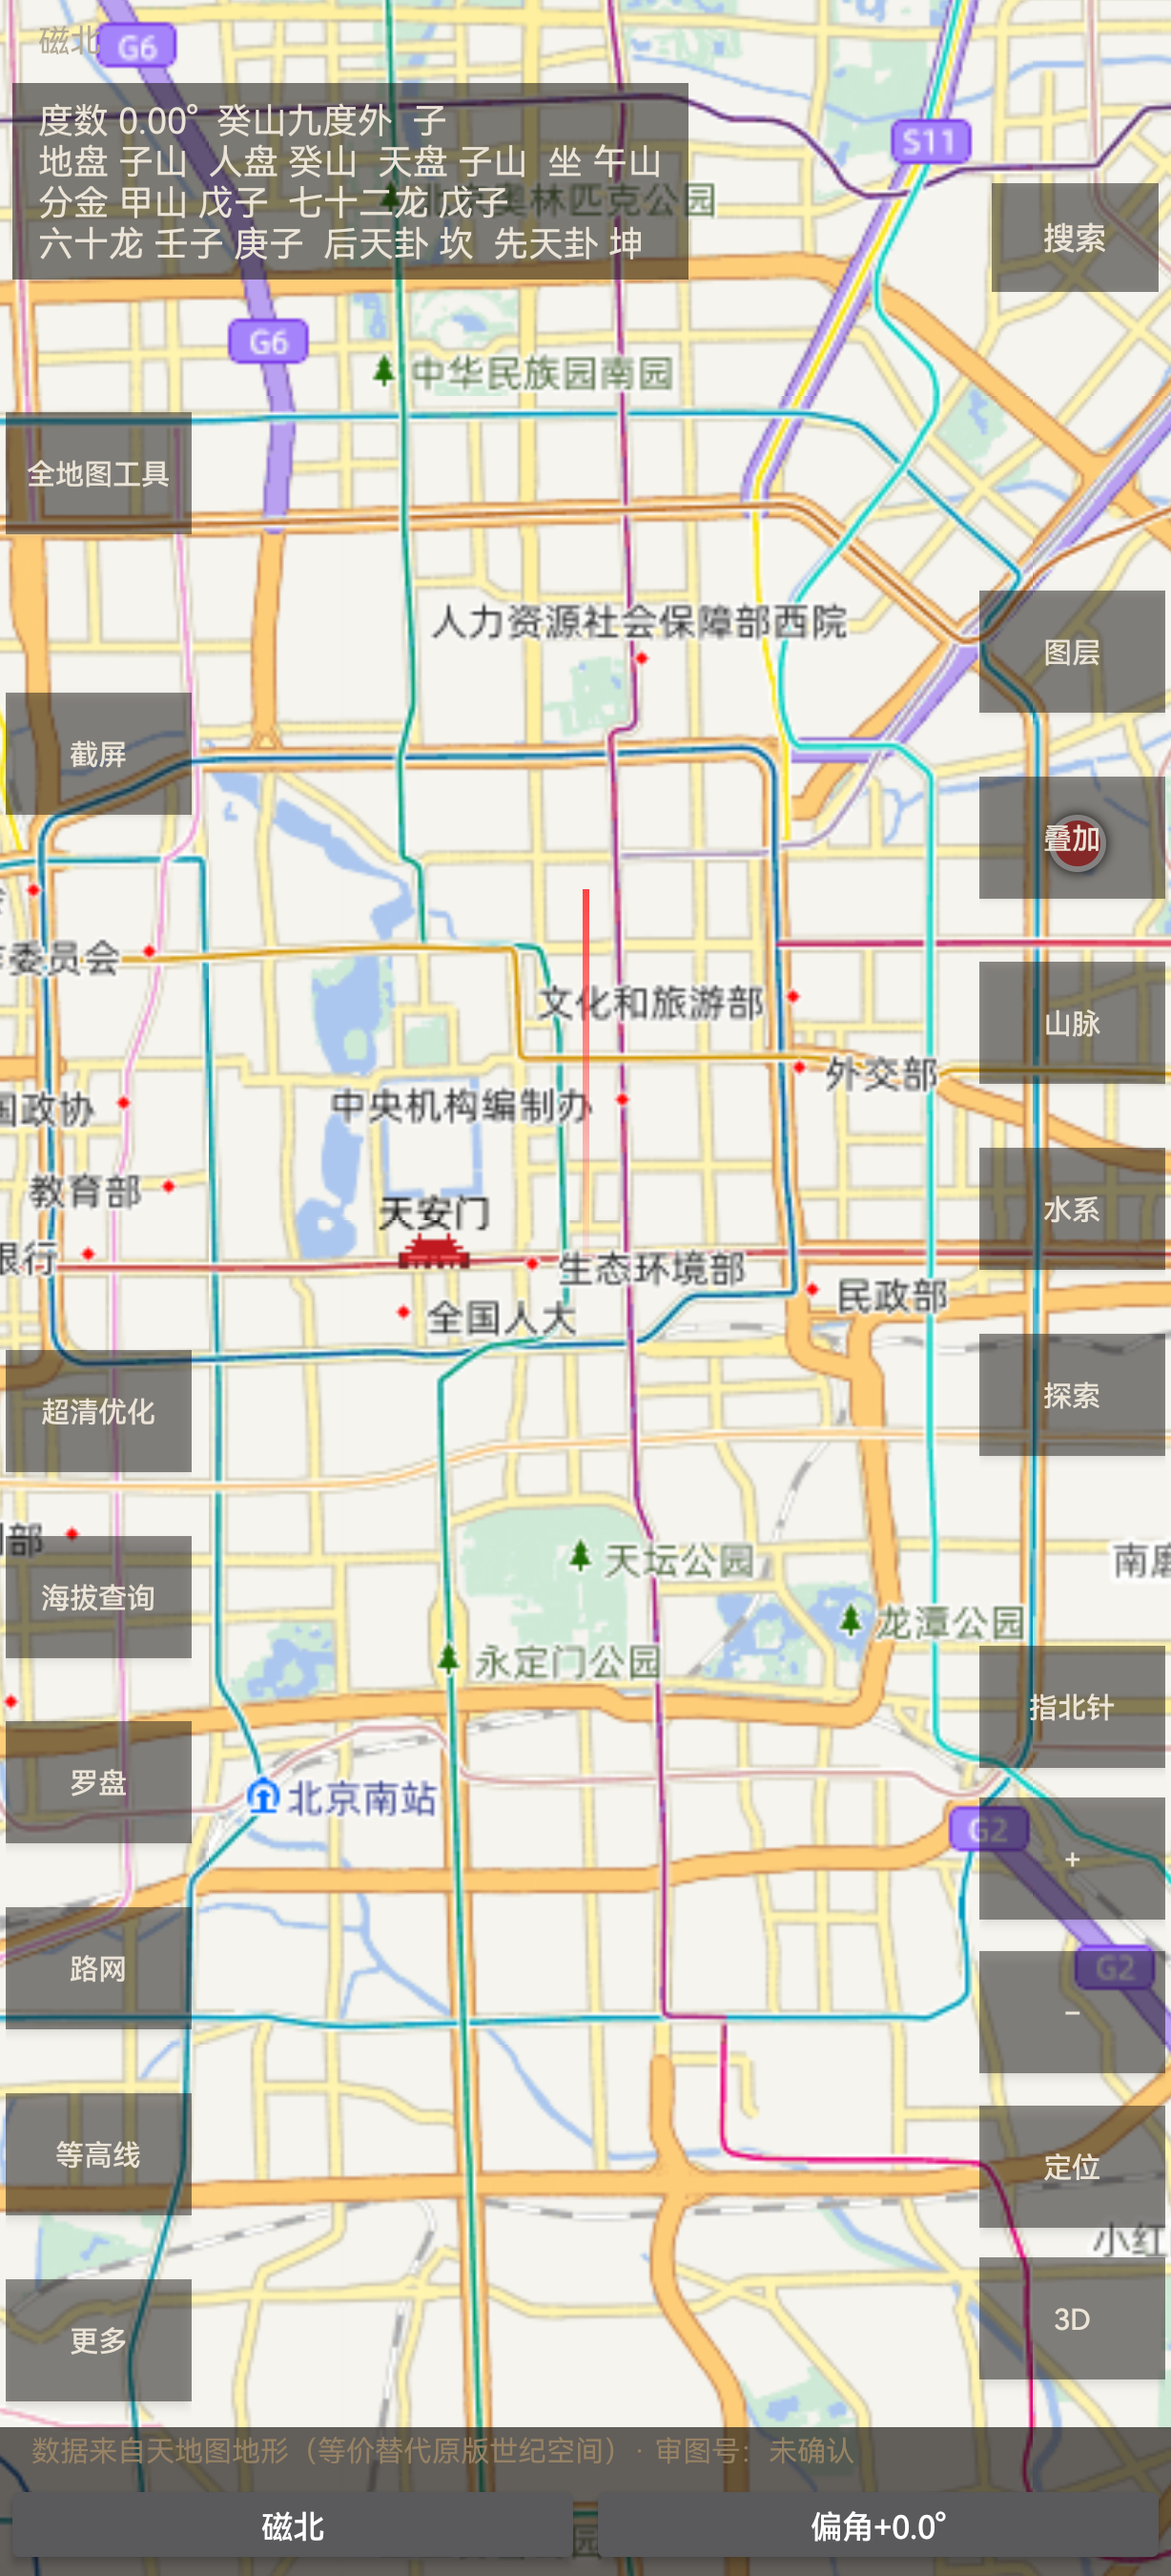
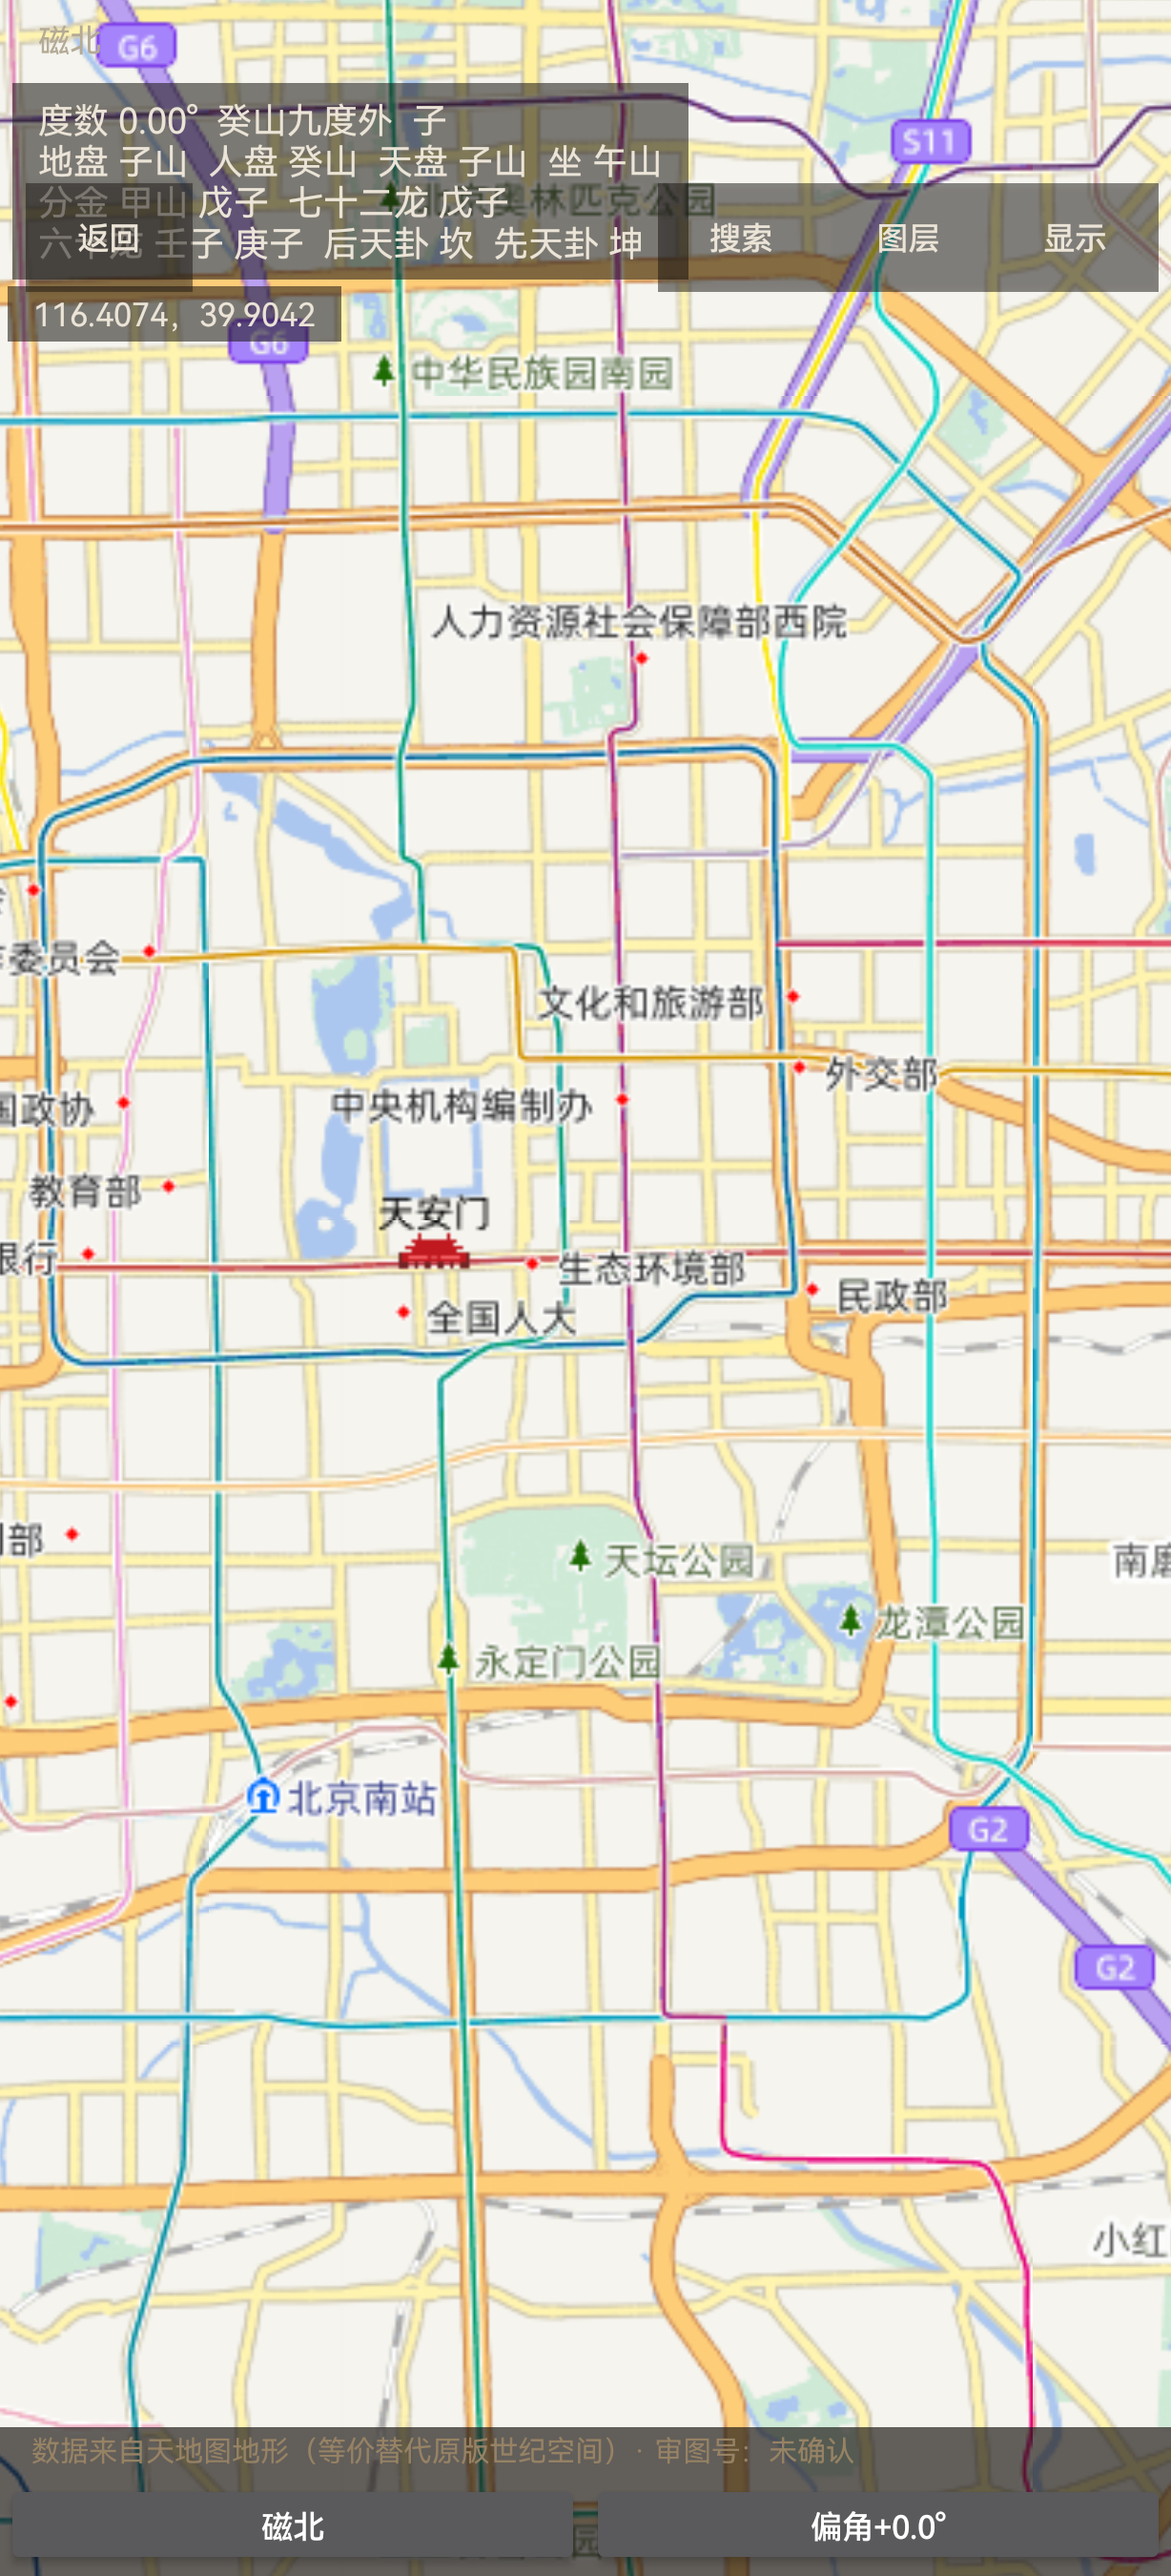
evidence(fidelity): P0 批次四态（POI/收藏/抽屉/隐藏）+ 索引落点（构建 55aa19b）
代码在 `feature/client-p0-batch1`（078ec1f 四项实现 + 55aa19b 坐标条/返回键），
本提交只放证据与索引，全部 1228x2700、动画 0、heading 0、clearMarkers 后采。

- map-poi-sheet-01（行 05，原缺失）：lc_poi_panel [0,2135][1228,2578]=443px；
  名称 逆地理「北京市东城区景山街道张自忠路4号院1号楼」、距我 1730.4 km、海拔 未知、
  WGS84:116.4074，39.9315、复制经纬度/收藏地点/导航/清除标记 均实测可点。
- favorite-list-02（行 17/37）：lc_fav_column 2 项（收藏列表/等高线）+ lc_fav_add「添加点」。
- drawer-menu-03（行 34，原缺失）：lc_drawer_panel 9 项 + 版本号「三维山水全景地图V 1.6.1」。
- compass-overlay-hidden-map（行 09，重采）：按钮变「显示」、reading_text 与 lc_coord_text
  「116.4074，39.9042」保留、左右工具列 0 项、不退出罗盘态。

meta 说明：`fidelity collect` 强制 `build.branch=develop`，本批代码还在 feature 分支，
所以这四态只落 png+xml；合入 develop 后按同 stem 重采或 meta-backfill 生成，不写假 branch。
旧 compass-overlay-hidden-map.meta.json 与旧图已不匹配，已删除。
索引 §1 统计改为 有19 + 等价1 + 地图16 + 缺失2 = 38。

[LC客户端]

diff --git a/docs/fidelity/lc-captures.md b/docs/fidelity/lc-captures.md
@@ -33,6 +33,7 @@
 |---|---|---|---|
 | 客户端章节首批 | `e88ed0c`（`e88ed0c2aa70272e36f6d03a0a6f12511d6bf532`） | 7,059,509 B / `8DD5BF13…` | 14 个 stem（含 `map-home-01`、罗盘页、读盘、更多面板、设置、天气、收藏点空态、超清地图、增量 2 个） |
 | 客户端章节 D2 | `bd0323b`（`bd0323b0e64a71f660ff322f33b31de42c36f432`） | 7,059,481 B / `381D163E…` | `tool-manage-01`、`favorite-addpoint-01` |
+| 客户端 P0 批次（R2-004/006/014/018） | `55aa19b`（`55aa19b03689cdf77adff2134e913d02d181a32f`，分支 `feature/client-p0-batch1`） | 7,261,981 B | `map-poi-sheet-01`、`favorite-list-02`、`drawer-menu-03`、`compass-overlay-hidden-map`（重采）。**meta 暂缺**：`collect` 强制 `build.branch=develop`，本批代码尚在 feature 分支，待合入 develop 后按同 stem 重采/backfill 生成 |
 | 地图章节 | `464ebb8` + `bd0323b`（新采 `map-3d-img` 等） | 见 §4 口径行 | 见 §4 |
 
 D2 采集注意：钓点页「加钓点」会写入 1 条自建钓点（`FishingActivity` 的 `SharedPreferences lc_fish/points`），
@@ -72,11 +73,11 @@ D2 采集注意：钓点页「加钓点」会写入 1 条自建钓点（`Fishing
 | 02 | 开屏广告（`_launch-probe2.png`） | 缺失 | — | LC 无广告 SDK/开屏位；证据：`launch-probe-01.png` 冷启动直接是地图页，`more-sheet-03-fresh.xml` 条目里无任何广告入口 |
 | 03 | 地图主界面（`map-home-01`） | 有 | `map-home-01.png/.xml/.meta.json` | 默认位置（全国视野），左列 8 项、右列 10 项、顶栏 搜索/图层、底部角注条 |
 | 04 | 地图固定态（`map-beijing-z12`） | 地图章节 | — | 固定态由 LC地图 采（`setView(39.9042,116.4074,12)`） |
-| 05 | POI 详情面板（`map-poi-sheet-01`） | 缺失 | — | LC 无 POI 详情面板；证据：`map-home-01.xml` 全节点表无详情容器，地图点选只回 `MapMarker`（3D 点选）不弹面板 |
+| 05 | POI 详情面板（`map-poi-sheet-01`） | 有 | `map-poi-sheet-01.png/.xml`（构建 `55aa19b`，meta 待合 develop 后 backfill） | R2-004 已实现：点图保留「立向点」并在其上挂面板，`lc_poi_panel` **[0,2135][1228,2578]=443px**；名称=逆地理`北京市东城区景山街道张自忠路4号院1号楼`、`距我 1730.4 km    海拔 未知`、`WGS84:116.4074，39.9315`（全角逗号）、三枚动作 复制经纬度[47,2432]-[425,2551]/收藏地点[425,2432]-[803,2551]/导航[803,2432]-[1181,2551]，另有清除标记[884,2162]-[1181,2324] |
 | 06 | 搜索页空结果（`search-result-01`） | 地图章节 | — | 顶栏「搜索」[1040,192]-[1215,306]（`map-home-01.xml`），搜索面在 `map.html` 内，归地图章节 |
 | 07 | 搜索页四坐标系（`search-result-02`） | 地图章节 | — | 同上 |
 | 08 | 罗盘浮层页（`tool-compass-page`） | 有 | `tool-compass-page.png/.xml/.meta.json` | 24 山盘 + 度数 + 太极 + 读数面板；左列 6 项、右列 4 项、底栏 5 项 |
-| 09 | 罗盘浮层（读数条 + 隐藏，`compass-overlay-hidden-map`） | 有 | `compass-overlay-hidden-map.png/.xml/.meta.json` | 点顶栏「隐藏」后盘面消失、地图与工具列保留；与 03 逐像素差 2,169,388 px（65.4%） |
+| 09 | 罗盘浮层（读数条 + 隐藏，`compass-overlay-hidden-map`） | 有 | `compass-overlay-hidden-map.png/.xml`（R2-006 重采，构建 `55aa19b`） | R2-006 后：隐藏只隐盘面/指针/左右工具列（0 项），按钮变`显示`[1040,192]-[1215,306]、`返回`[27,192]-[202,306] 保留、读数条 `reading_text`[13,87]-[722,293] 保留、坐标 `116.4074，39.9042` `lc_coord_text`[8,300]-[358,358] 保留，不退出罗盘态 |
 | 10 | 海拔查询 POI 面板（`compass-main-01`） | 有 | `compass-main-01.png/.xml/.meta.json` | 左列「海拔查询」→ 点地图：纬度/经度/海拔 55.0 m/地址/含氧量 20.88 %/气压 1006.7 hPa/关闭 |
 | 11 | 超清地图（VIP 引导，`tool-hdmap-01`） | 有 | `tool-hdmap-01.png/.xml/.meta.json` | LC 无 VIP 墙，直接是可用的「2× 放大（双三次）→ 生成超清图」页 |
 | 12 | 付费墙（`vip-paywall-01`） | 缺失 | — | LC 全功能免费，无付费墙/VIP 页；证据：`more-sheet-03-fresh.xml` 16 个工具条目全部可直接进入 |
@@ -84,7 +85,7 @@ D2 采集注意：钓点页「加钓点」会写入 1 条自建钓点（`Fishing
 | 14 | 右列（`win-02-compass`） | 有 | `win-02-compass.*` | 地图/实景/坐南朝北/指针开关 |
 | 15 | 底栏（`win-02-compass`） | 有 | `win-02-compass.*` | 切换/旋转/缩放/透明度/天支线 |
 | 16 | 智能读盘弹层（`w3-sheet`） | 有 | `w3-sheet.png/.xml/.meta.json` | 14 行「类型名 向：X 坐：Y」逐行完整（含先天卦位/洛书数/三盘/分金/七十二龙/六十龙） |
-| 17 | 收藏点模式（`tool-favorite-01`） | 有 | `tool-favorite-01.png/.xml/.meta.json` | LC 打开的是独立列表页 `InterestListActivity`（`MainActivity.java:1417-1419`，F-11 默认开），空态文案 `lc_interest_empty`「暂无收藏点」，dump 仅 3 节点；不是原版「地图内收藏点模式 + 右列收藏列表」形态，形态差异见 findings-client P1-17 |
+| 17 | 收藏点模式（`tool-favorite-01`） | 有 | `favorite-list-02.png/.xml`（R2-014 重采，构建 `55aa19b`） | R2-014 后「更多→收藏点」直接进地图态：右列 `lc_fav_column`[966,1195]-[1222,1505] 2 项 收藏列表[966,1195]-[1222,1350]/等高线[966,1350]-[1222,1505]，底部 `lc_fav_add`「添加点」[0,2430]-[1228,2578]；列表降为 `InterestListActivity` 子页，返回键退回地图态 |
 | 18 | 测量模式（`tool-measure-01`） | 地图章节 | — | 入口在 `more-sheet-03-fresh.xml`「测量」[359,1372]-[613,1534] |
 | 19 | 画笔模式（`tool-brush`） | 地图章节 | — | 入口「画笔」[613,1372]-[867,1534] |
 | 20 | 钓点（`tool-fishing`） | 地图章节 | — | 入口「钓点」[867,1372]-[1121,1534] |
@@ -101,13 +102,13 @@ D2 采集注意：钓点页「加钓点」会写入 1 条自建钓点（`Fishing
 | 31 | 地图工具面板（默认态，`more-sheet-03-fresh`） | 有 | `more-sheet-03-fresh.png/.xml/.meta.json` | 标题「地图工具」；16 项：罗盘/超清地图/看山脉/看水系/海拔查询/天气/历史影像/等高线/收藏点/测量/画笔/钓点/轨迹记录/路网/地理影像/超清优化，另有「设置」「功能开关（调试）」 |
 | 32 | 地图工具面板（滚动后，`more-sheet-02-scrolled`） | 有 | **与 31 共用** `more-sheet-03-fresh.png/.xml/.meta.json` | **实测不可滚动**：`input swipe 614 2300 614 1500 300` 后 dump 与 31 的 SHA256 完全相同（`EC23C862…5DC7`），面板一屏装下 16 项；同态共用一份证据，不另存第二张同图 |
 | 33 | 天气页（`tool-weather-01`） | 有 | `tool-weather-01.png/.xml/.meta.json` | LC 有真实数据：城市 北京、14°、晴、西风 2 级、湿度 16 %、空气质量 19、7 日预报、数据源「中国天气网 · 更新 13:45」；原版为 VIP 门禁（U1） |
-| 34 | 抽屉菜单（`drawer-menu-03`） | 缺失 | — | LC 无汉堡抽屉/侧栏；证据：`map-home-01.xml` 顶栏只有 搜索[1040,192]-[1215,306]，无左上汉堡点击区（原版 [35,140]-[160,265] 处为地图控件） |
+| 34 | 抽屉菜单（`drawer-menu-03`） | 有 | `drawer-menu-03.png/.xml`（构建 `55aa19b`） | R2-018 实现：左上 `lc_menu_button`「≡」[20,192]-[155,306] 打开 `lc_drawer_panel`[0,0]-[1012,2578]，9 项逐字 地图设置/账户设置/投诉反馈/关于我们/联系我们/推荐给好友/开具发票/帮助中心/用户协议，版本号 `三维山水全景地图V 1.6.1`[0,1529]-[1012,1662]；账户/VIP 区按 DI 不实现 |
 | 35 | 地图设置（`setting-map-01`） | 有 | `setting-map-01.png/.xml/.meta.json` | 地图滤镜/模式四 chip 常规[39,584]-[284,681]、自然[340,584]、高亮[641,584]、自定义[942,584]、地图效果预览、显示路网、允许地图旋转、回到上次浏览位置、屏幕常亮、3D 操作按钮、中心十字架、坐标系 WGS84 |
 | 36 | 工具管理（`tool-manage-01`） | 有 | `tool-manage-01.png/.xml/.meta.json` | D2 补采：`ToolsManagerActivity`。入口：地图左列「全地图工具」[6,432]-[201,560] 中心 `(103,496)`（`MainActivity.java:901-903`，F-01 默认开）。实测：标题栏 `‹`[0,122]-[176,298]、「首页展示功能」[41,373]-[1187,446]+说明、快捷入口 超清优化[92,768]/海拔查询[361,768]/罗盘[630,768]/路网[900,768]/等高线[92,1005]、「全部功能」[41,1213]-[1187,1286]、全部功能 16 项自 y1465 起 |
-| 37 | 收藏列表入口（`favorite-list-02`） | 有 | **与 17 共用** `tool-favorite-01.png/.xml/.meta.json` | LC 收藏点页只有空态「暂无收藏点」，**无独立收藏列表入口**（dump 仅 3 节点：返回/标题/空态文案）；原版行 37 的「收藏列表点击区 [1043,506]-[1201,664]」在 LC 不存在，同态共用一份证据 |
+| 37 | 收藏列表入口（`favorite-list-02`） | 有 | **与 17 共用** `favorite-list-02.png/.xml` | R2-014 后入口为收藏点地图态右列「收藏列表」`lc_fav_list`[966,1195]-[1222,1350]（原版 [1043,506]-[1201,664] 位置不同，属布局差异，Stage 3 判）；点它进 `InterestListActivity` 子页 |
 | 38 | 收藏保存 → 登录墙（`favorite-addpoint-01`） | 有 | `favorite-addpoint-01.png/.xml/.meta.json` | D2 补采：`SaveInterestActivity`「保存收藏点」。入口：更多 → 钓点[867,1372]-[1121,1534] → 右上「加钓点」[904,325]-[1201,487] → 点自建标记「塘」[550,1394]-[678,1519] → 详情对话框「收藏地点」[147,1456]-[458,1618]（`FishingActivity.java:417-425`）。实测：名称(可空)[68,344]-[1160,487]、坐标 `39.904200, 116.407400`[655,528]、坐向 `坐180.0° 向0.0°`[841,646]、时间 `2026-11-06 19:37`[765,764]、保存[68,922]-[1160,1084]。**LC 无登录墙**：原版 38「添加点 → LoginActivity」对应 LC 本地保存表单，登录墙按 **DI** 登记 |
 
-统计（按 §1 表逐行数）：**有 17 + 等价 1 + 地图章节 16 + 缺失 4 + 待补采 0 = 38**。缺失项均给证据位置；
+统计（按 §1 表逐行数）：**有 19 + 等价 1 + 地图章节 16 + 缺失 2 + 待补采 0 = 38**。缺失项均给证据位置；
 D2 已把 36/38 从「待补采」补成实采（构建 `bd0323b`，见 §0.1），复现不了的仍退回「缺失」。
 
 **同态共用**：行 32↔31（更多面板不可滚动）、行 37↔17（收藏点只有空态、无收藏列表入口）各共用一份证据，
